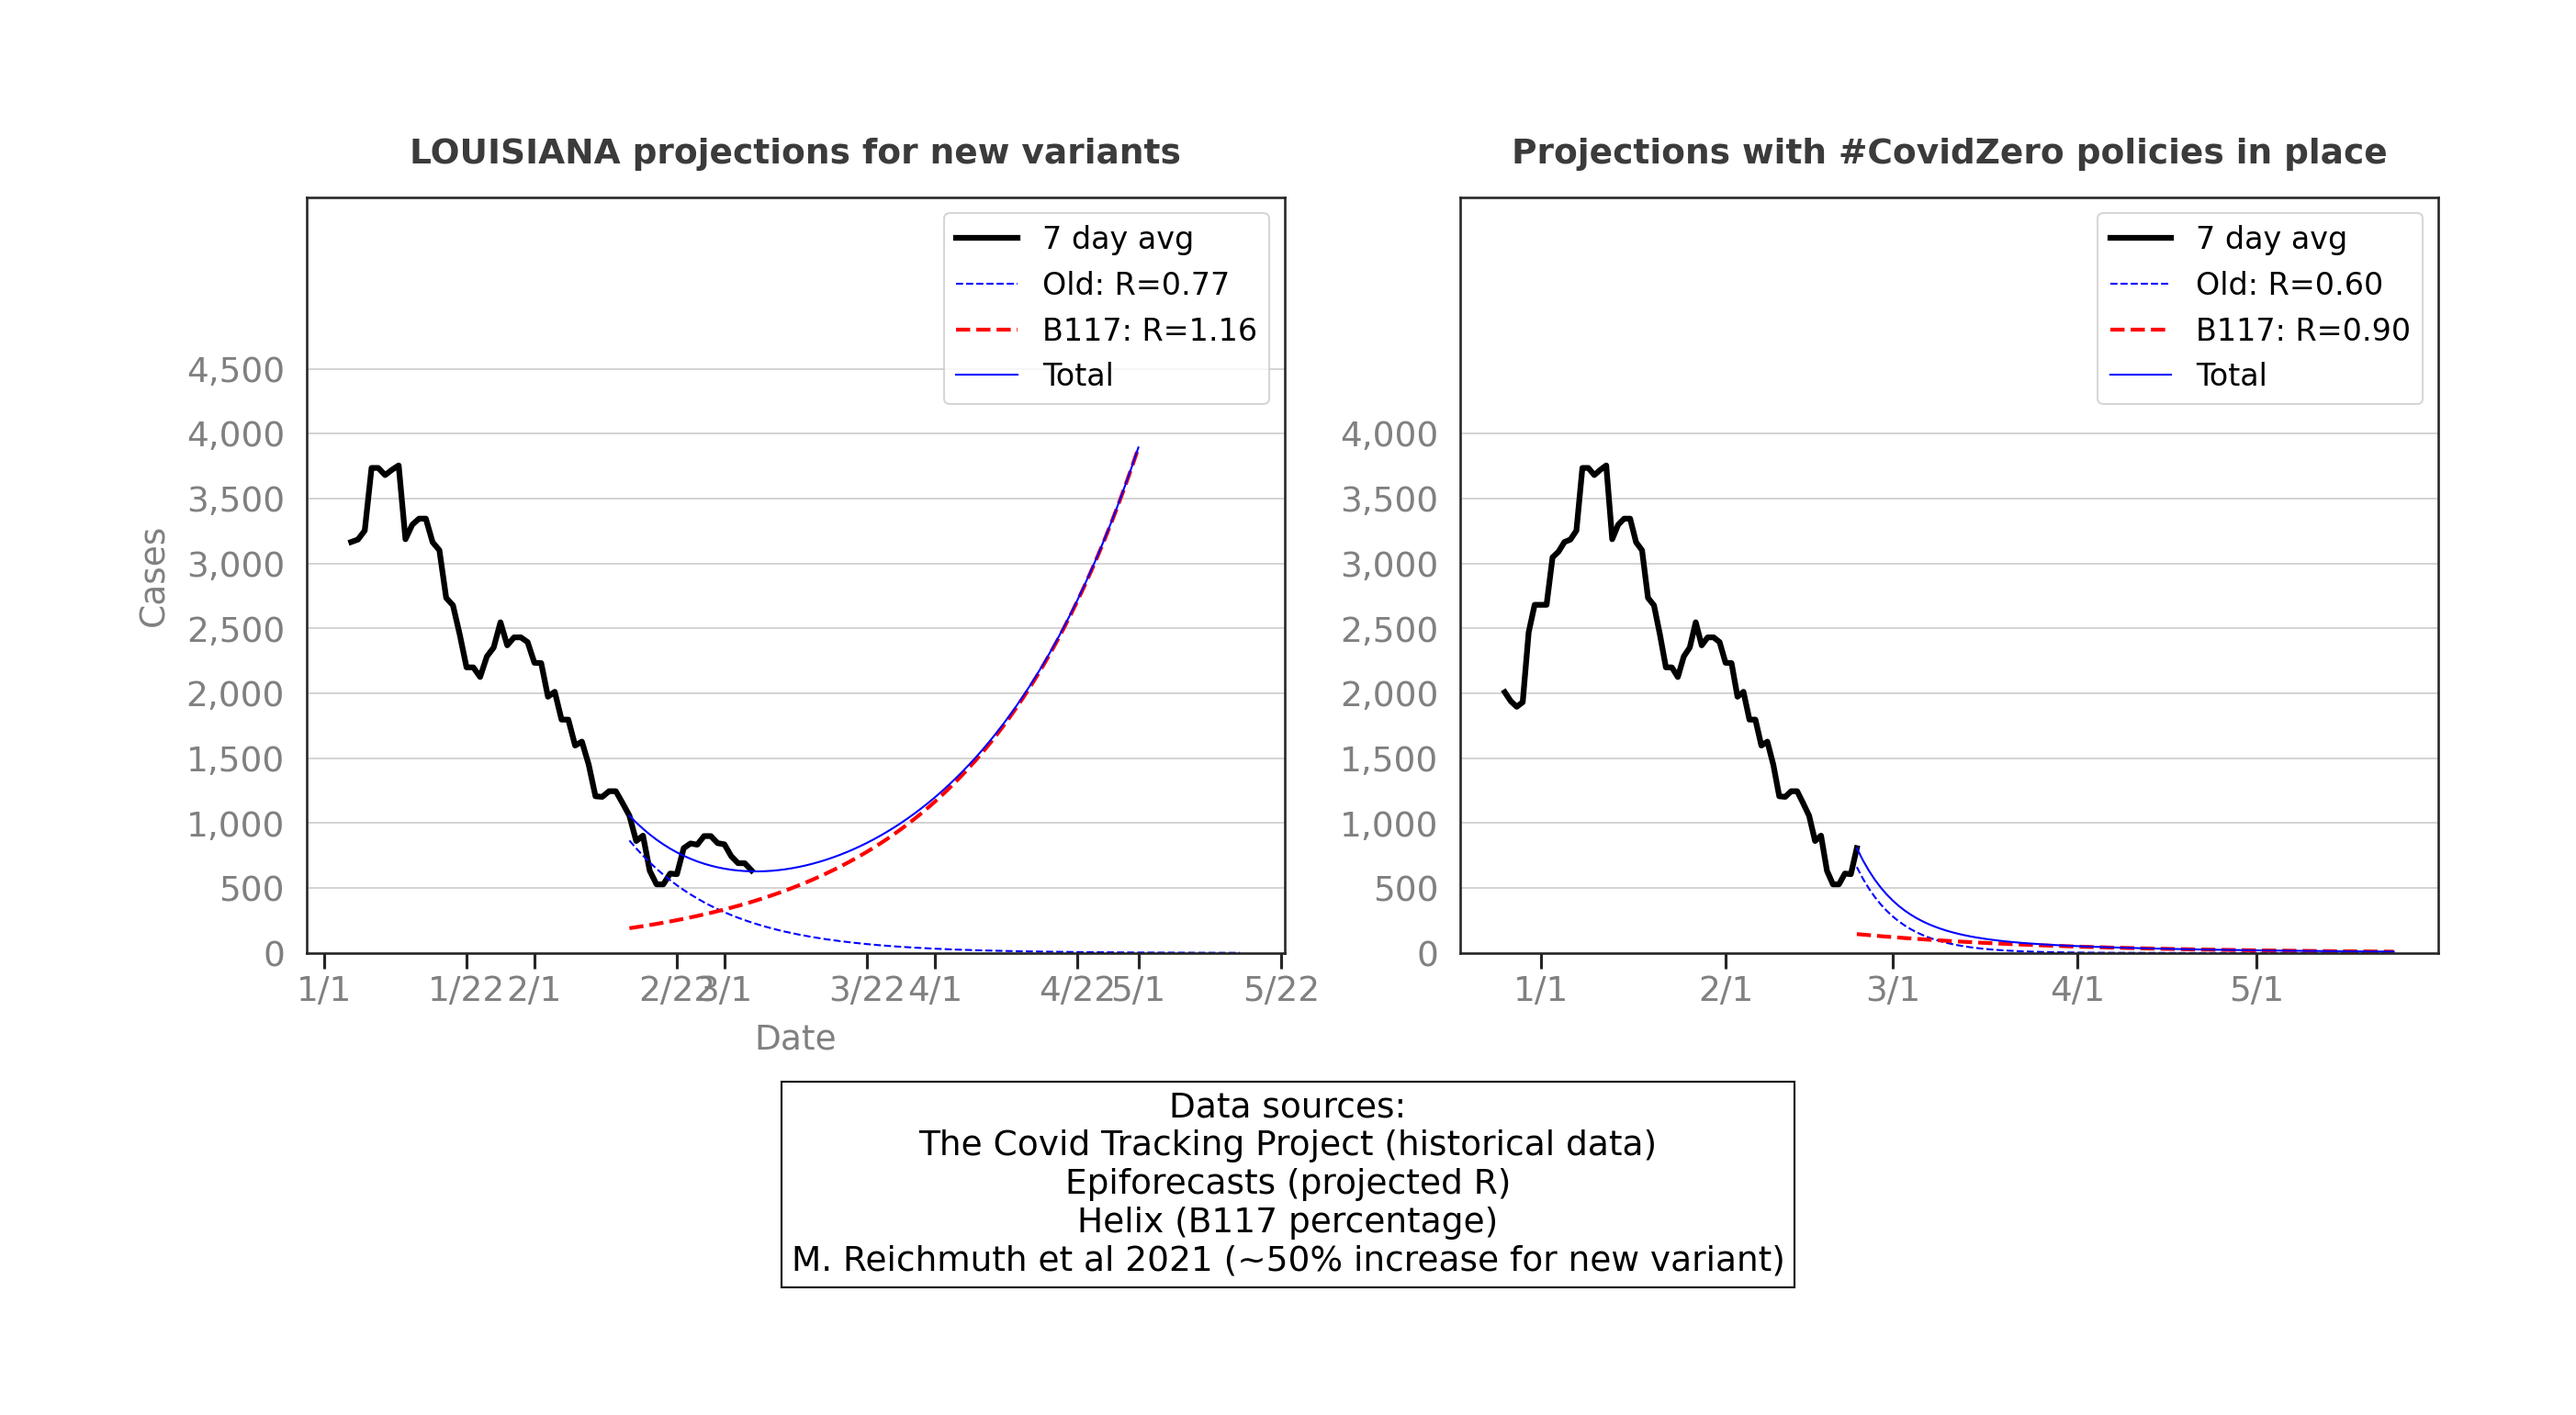
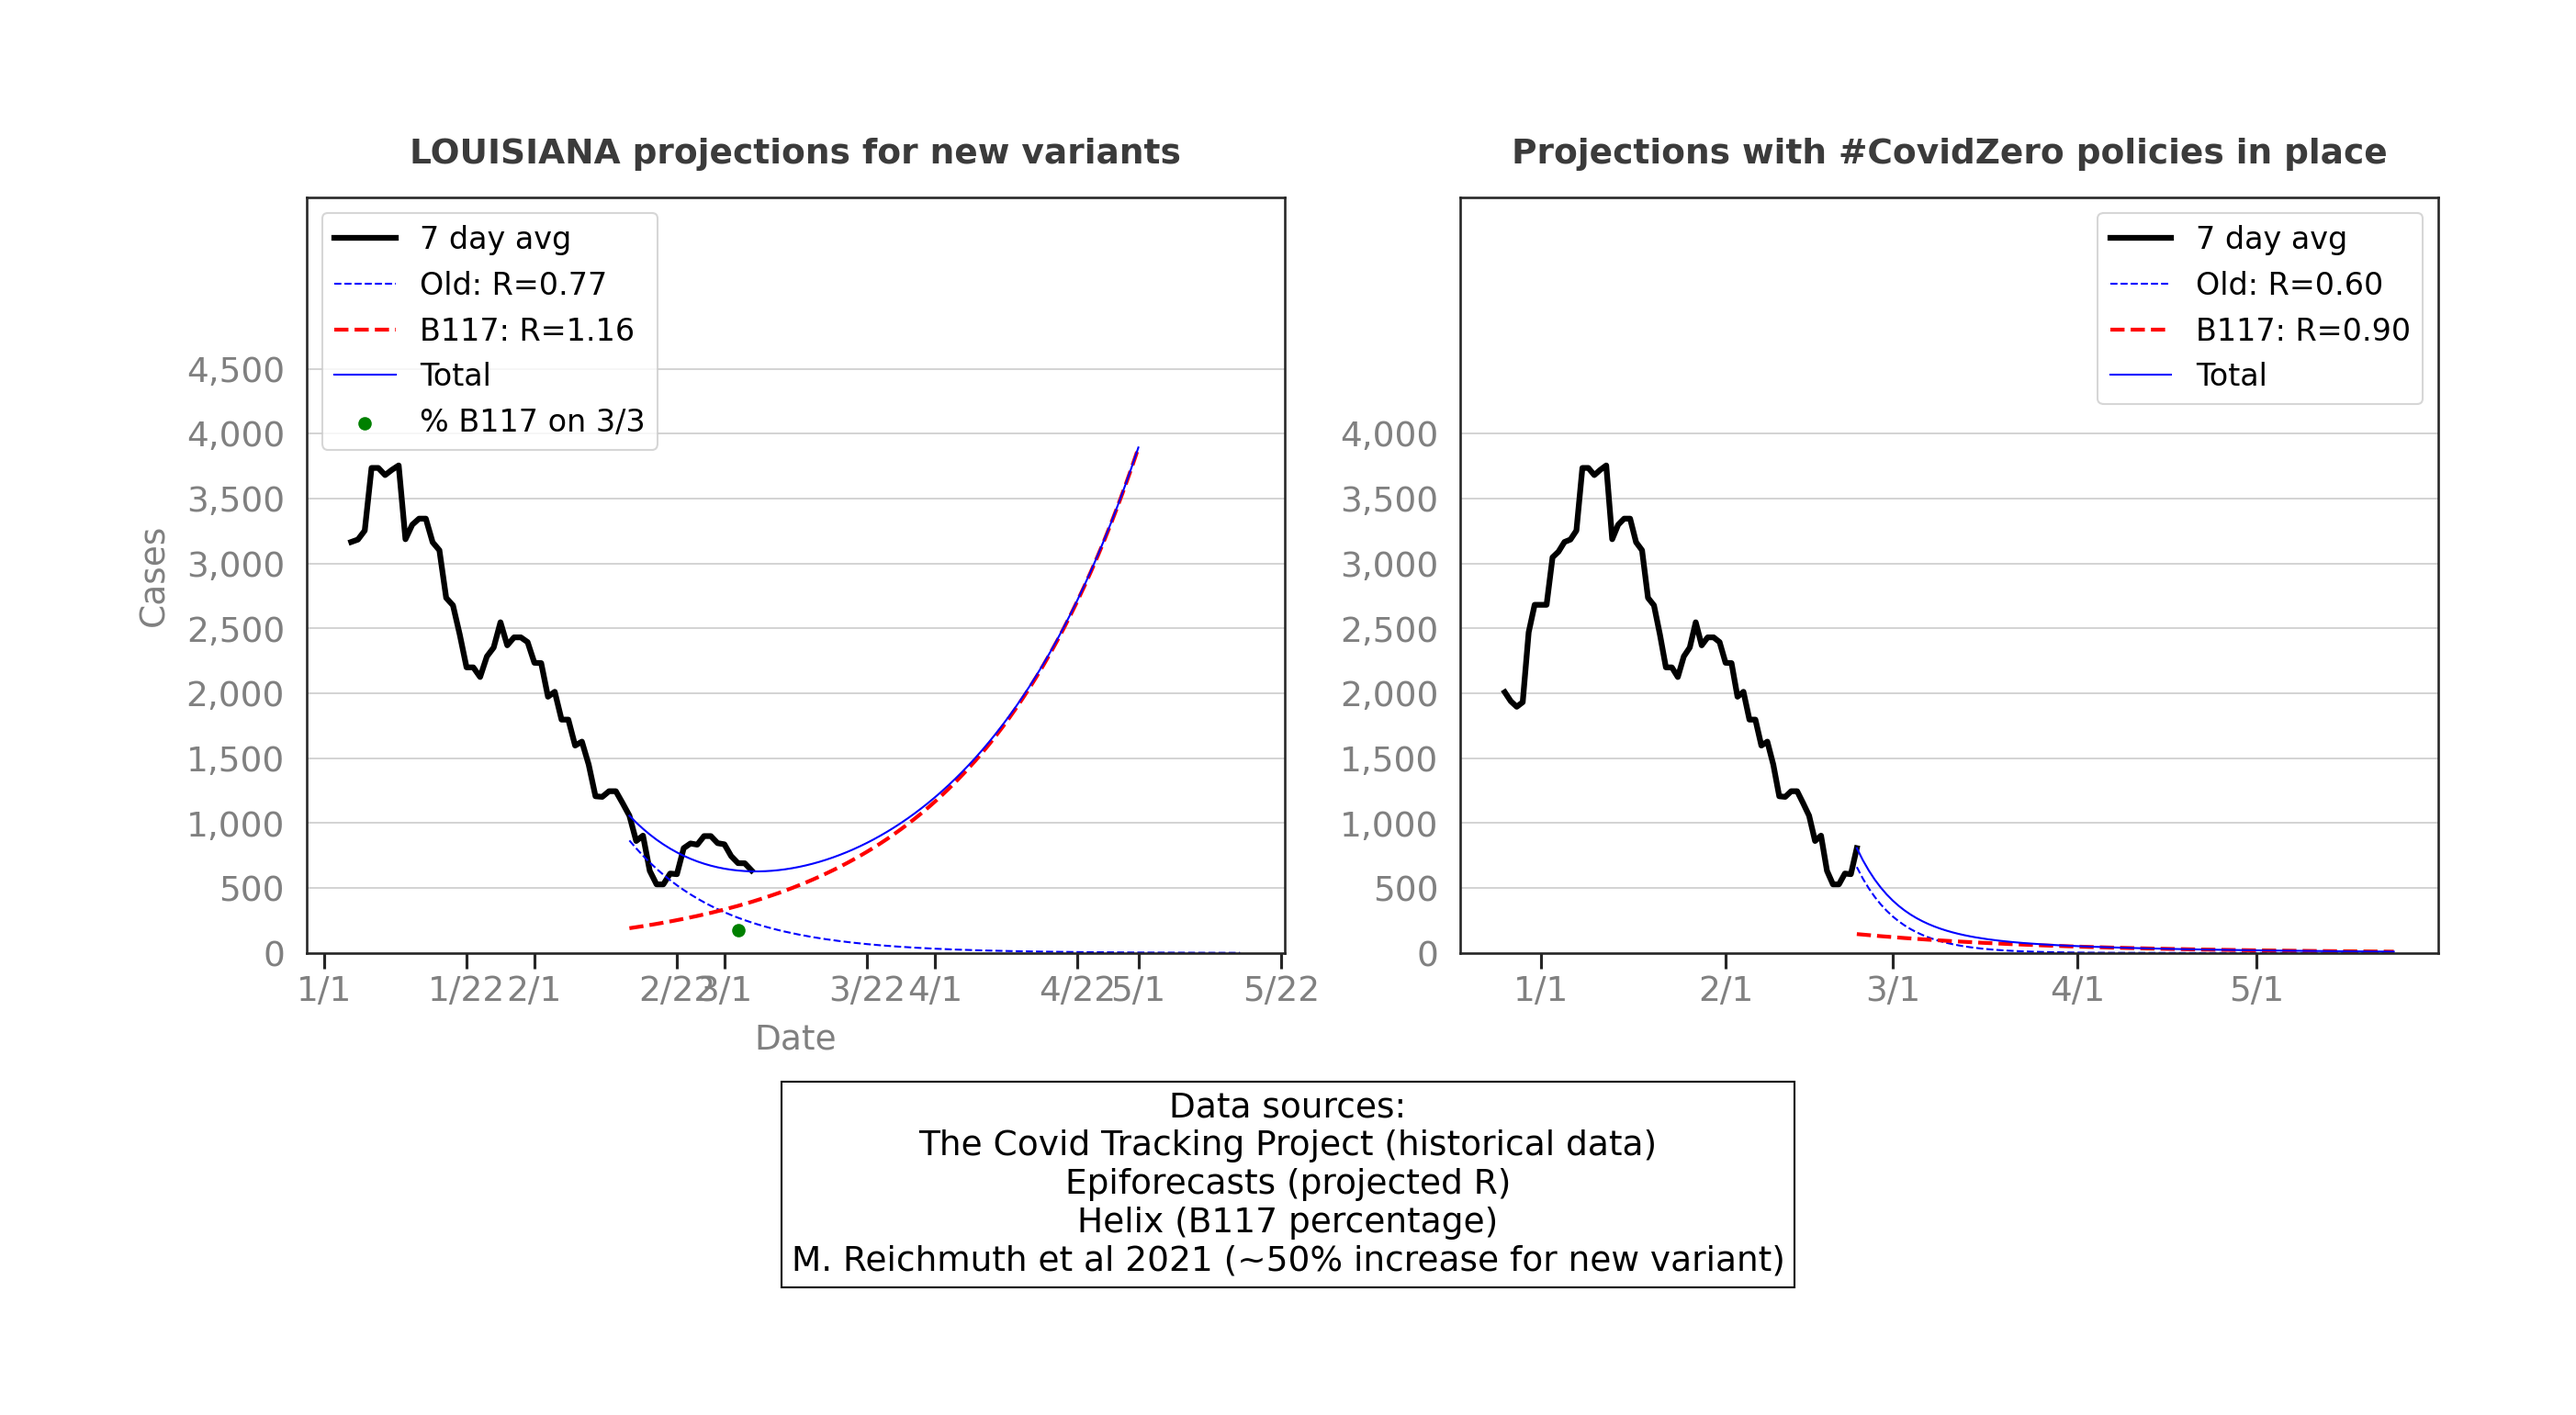
Added green dot for B117 pct on 3/3

Changed region(s): [[0.1241, 0.1557, 0.2481, 0.3115], [0.3722, 0.1557, 0.4963, 0.2803]]

diff --git a/new_variant_estimate.py b/new_variant_estimate.py
@@ -124,9 +124,9 @@ def getDataForState(data, state):
 # Pad out a column to have the correct number of x axis values
 def padColumn(data, column, n_pad):
   pad = np.full(n_pad, np.nan) # ignore the pad values in the chart
-  average = np.concatenate((pad, data[column]))[::-1]
+  padded = np.concatenate((pad, data[column]))[::-1]
 
-  return average
+  return padded
 
 # Set up each matplotlib axis
 def setUpAxis(axis, y_cutoff, labels=False):
@@ -192,7 +192,7 @@ M. Reichmuth et al 2021 (~50% increase for new variant)"""
 
 # Make a sub-chart of historical and projection data
 def makeSubChart(df_historical, df_r_estimates, state, R_covid, R_variant, 
-    axis, header_text, n_days_data, n_days_projection, legend=False, current=True, pct_variant=1.0, overlap=False):
+    axis, header_text, n_days_data, n_days_projection, legend=False, current=True, pct_variant=1.0, pct_variant_update=0.0, overlap=False):
 
     historical_start_date = df_historical['date'][0]
 
@@ -241,6 +241,21 @@ def makeSubChart(df_historical, df_r_estimates, state, R_covid, R_variant,
     projection_variant = projectCases(R_variant, init_variant_cases, n_days_projection  + 1, generation=generation, pad=len(data) - projection_overlap - 1)
     projection_total = projection_covid + projection_variant
 
+
+    # pin for updated variant percent
+    if pct_variant_update > 0:
+      variant_update = np.full(len(dates), np.nan) 
+      variant_update_date = datetime.datetime(2021, 3, 3)
+      variant_date_offset = variant_update_date - dates[0]
+      variant_days_offset = int(variant_date_offset.total_seconds()/(60*60*24))
+
+
+
+      variant_update[variant_days_offset] = data['average'].iat[-variant_days_offset]*pct_variant_update
+
+
+
+
     # cutoff where greater than y_cutoff
     y_cutoff = data['average'].max()
     x_cutoff = np.where(projection_total > y_cutoff)
@@ -272,7 +287,9 @@ def makeSubChart(df_historical, df_r_estimates, state, R_covid, R_variant,
     axis.plot(dates, projection_variant, '--', color='red', lw=2, label=new_var_str)
     axis.plot(dates, projection_total, color='blue', lw=1, label="Total")
 
-
+    # # UPDATED B117 PCT PLOT #
+    if pct_variant_update > 0:
+      axis.scatter(dates, variant_update, color='green', label='% B117 on 3/3')
 
 
     # SUBPLOT TITLE#
@@ -291,6 +308,7 @@ def makeSubChart(df_historical, df_r_estimates, state, R_covid, R_variant,
 # Make a two paneled chart for the given state and values
 def makeChart(state, n_days_projection, n_days_data, data_folder, update_data=False, legend=False, fig_folder='fig', overlap=False):
 
+  print('Making chart for state: ', state)
   state_full_name = str(state_abbrevs[state])
   
 
@@ -318,6 +336,7 @@ def makeChart(state, n_days_projection, n_days_data, data_folder, update_data=Fa
 
   # data on B117 rates
   df_b117 = pd.read_csv(data_folder + '/Helix_B117.csv', index_col=0)
+  df_b117_update = pd.read_csv(data_folder + '/Helix_B117_update.csv', index_col=0)
 
   # Estimated R0
   R0 = float(df_r_estimates['R'][state_full_name])
@@ -326,6 +345,11 @@ def makeChart(state, n_days_projection, n_days_data, data_folder, update_data=Fa
   pct_SGTF = df_b117['pct_SGTF'][state]/100.0 
   pct_SGTF_B117 = df_b117['pct_SGTF_B117'][state]/100.0
   pct_variant = pct_SGTF*pct_SGTF_B117
+
+  pct_SGTF_update = df_b117_update['pct_SGTF'][state]/100.0 
+  pct_SGTF_B117_update = df_b117_update['pct_SGTF_B117'][state]/100.0
+  pct_variant_update = pct_SGTF_update*pct_SGTF_B117_update
+
 
   # calculate R from estimated R0 for all cases
   R_covid = R0/(1.5*pct_variant + (1-pct_variant))
@@ -341,8 +365,8 @@ def makeChart(state, n_days_projection, n_days_data, data_folder, update_data=Fa
   title_covidzero = 'Projections with #CovidZero policies in place'
 
   axes = setUpPlots(2)
-  makeSubChart(df_historical, df_r_estimates, state, R_covid, R_variant, axes[0], title_current, n_days_data, n_days_projection, legend=legend, current=True, pct_variant=pct_variant, overlap=overlap)
-  makeSubChart(df_historical, df_r_estimates, state, R_covid_lockdown, R_variant_lockdown, axes[1], title_covidzero, n_days_data, n_days_projection, legend=legend, current=False, pct_variant=pct_variant, overlap=overlap)
+  makeSubChart(df_historical, df_r_estimates, state, R_covid, R_variant, axes[0], title_current, n_days_data, n_days_projection, legend=legend, current=True, pct_variant=pct_variant, pct_variant_update=pct_variant_update, overlap=overlap)
+  makeSubChart(df_historical, df_r_estimates, state, R_covid_lockdown, R_variant_lockdown, axes[1], title_covidzero, n_days_data, n_days_projection, legend=legend, current=False, pct_variant=pct_variant, pct_variant_update=0.0, overlap=overlap)
 
   filename = r'%s\projection_%s_%s.png'% (fig_folder, state, date_str)
   plt.savefig(filename, dpi=150, bbox_inches='tight', pad_inches=1)
